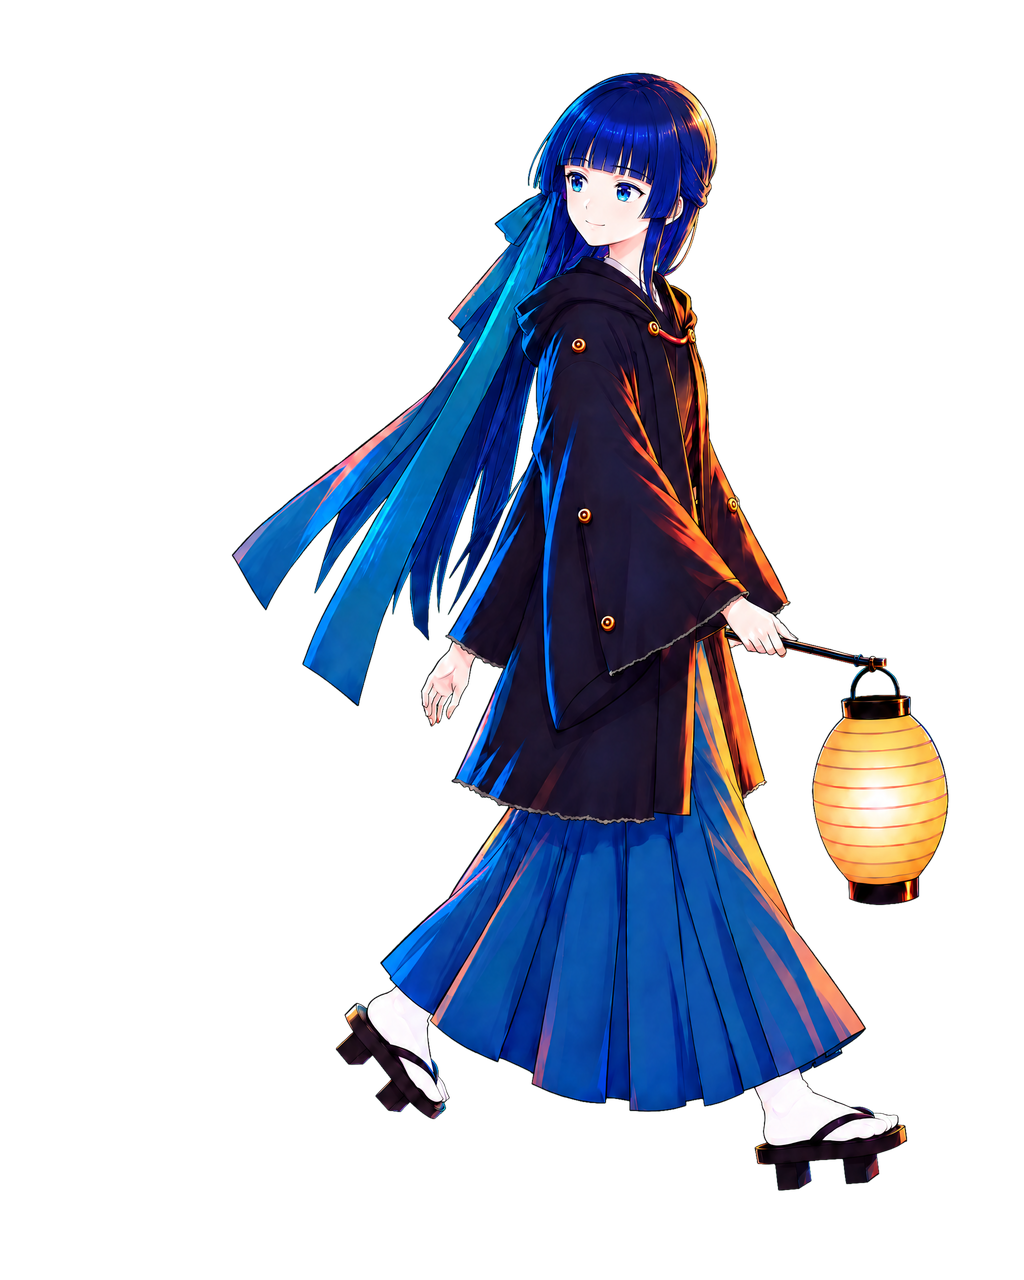
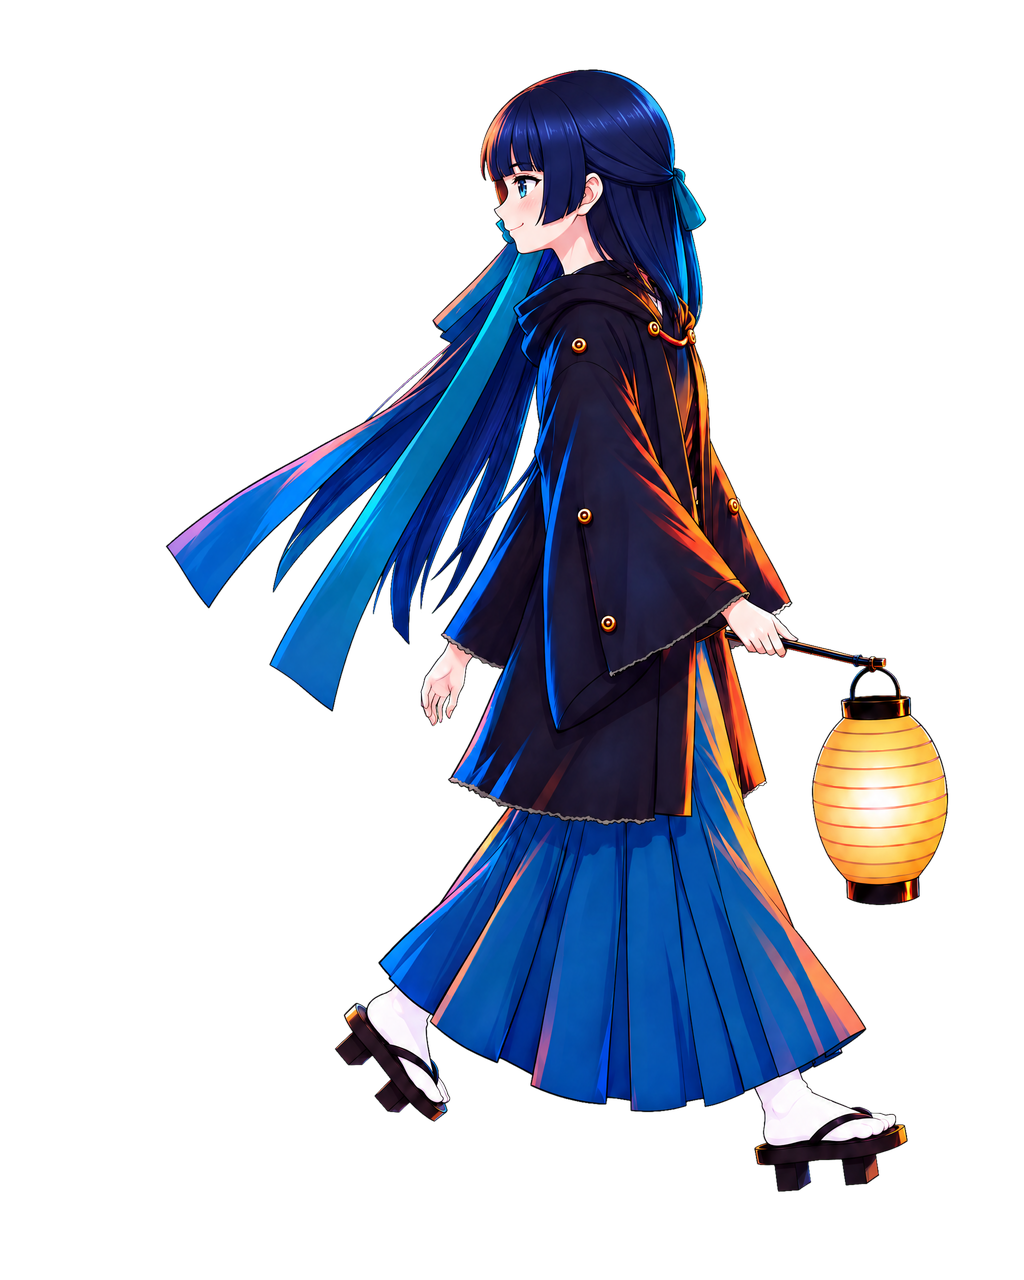
The walk-off's glance goes back to the window, not to camera (Fable: "she looked out at me, and as I go I look back at her... the kuroko is never looked at and never looks out"): wc1g redrawn, her head turned back over her near shoulder in profile to the left, F-C (the closed-lip smile), the body, t

diff --git a/projects/tsuzuku/rig/fable_room/gen.py b/projects/tsuzuku/rig/fable_room/gen.py
@@ -352,6 +352,37 @@ JOBS['g_wc1'] = ([mine('k_wc1')], "Edit image 1. Change ONLY her head: she turns
     "behind her, toward the LEFT of the picture (the window she is leaving), with a warm, closed-lip smile and bright open eyes. "
     "Her body, legs, arms, the lantern and its stick, her hair and ribbon trailing behind, exactly as in image 1. " + KD)
 
+# (the glance, again: Fable: "the look back closes what her turn at 'why' opened... a look to camera is the idol's grammar; the
+# kuroko is never looked at and never looks out." v1 (g_wc1_v1) turned her face to camera. Back over her shoulder to the window)
+JOBS['g_wc1'] = ([mine('k_wc1')], "Edit image 1. Change ONLY her head and neck: as she walks away to the right, she glances back "
+    "over her shoulder at the window she is leaving, which is BEHIND her, to the LEFT of the picture: her head turned round so her "
+    "face is seen in profile looking LEFT, back past her own shoulder, NOT toward the viewer; a warm closed-lip smile, the eye open "
+    "and bright, looking left and slightly up. Her body still walks to the right: the body, legs, feet and geta, both arms, the lantern "
+    "held ahead of her in her near hand on its short stick, the long hair and ribbon trailing behind her, and the jacket's thin "
+    "torn-paper (deckle) hem and cuffs in a lighter value of the black cloth (no white, no pale band) exactly as in image 1. " + KD)
+
+# (v2 kept her looking ahead. v3: image 2 shows the head she turns back with: her own smiling profile, facing left)
+JOBS['g_wc1'] = ([mine('k_wc1'), os.path.join(D, 'src', '_faces', 'ref_head_left_C.png')],
+    "Image 1 is the girl walking to the right, carrying a lit lantern ahead of her. Image 2 is her own head in profile facing LEFT, "
+    "smiling. Redraw image 1 with ONE change: she looks back over her shoulder, so her head is turned round to face LEFT like "
+    "image 2 (the same face, profile facing left, a warm closed-lip smile, eye open and bright, looking left and slightly up), "
+    "while her body keeps walking to the right. Her near shoulder is under her chin as she looks back past it; her hair and "
+    "ribbon still trail behind her. Everything else exactly as in image 1: the body, legs, feet and geta, both arms, the lantern "
+    "held ahead in her near hand on its short stick, and the jacket's thin torn-paper (deckle) hem and cuffs in a lighter value "
+    "of the black cloth (no white, no pale band). " + KD)
+
+# (v3 kept her looking ahead too. v4: a paste-up guide (her own smiling profile-left head, from d.C, set on wc1's neck), redrawn
+# by the model into one coherent drawing)
+JOBS['g_wc1'] = ([os.path.join(D, 'src', '_faces', 'guide_glance.png')],
+    "Image 1 is a rough paste-up. Redraw it as one clean, coherent illustration in exactly the same style: a girl walking to the "
+    "RIGHT who looks back over her shoulder toward the LEFT, at something behind her. KEEP her head turned as in image 1: her face in "
+    "profile facing LEFT, a warm closed-lip smile, the eye open and bright looking left. Join the head naturally to her neck and "
+    "shoulders (her chin over her near shoulder as she looks back past it); arrange her long dark indigo hair and the two long "
+    "indigo-teal ribbon tails naturally, trailing behind her to the left, never across her face. Keep the body, legs, feet and geta, "
+    "both arms, the lit lantern held ahead of her in her near hand on its short stick, and the jacket's thin torn-paper (deckle) hem "
+    "and cuffs in a lighter value of the black cloth (no white, no pale band), exactly as in image 1: same size and position. "
+    "Flat pure green (#00FF00) background, nothing else. No green on her.")
+
 
 def run(name):
     refs, prompt = JOBS[name]
